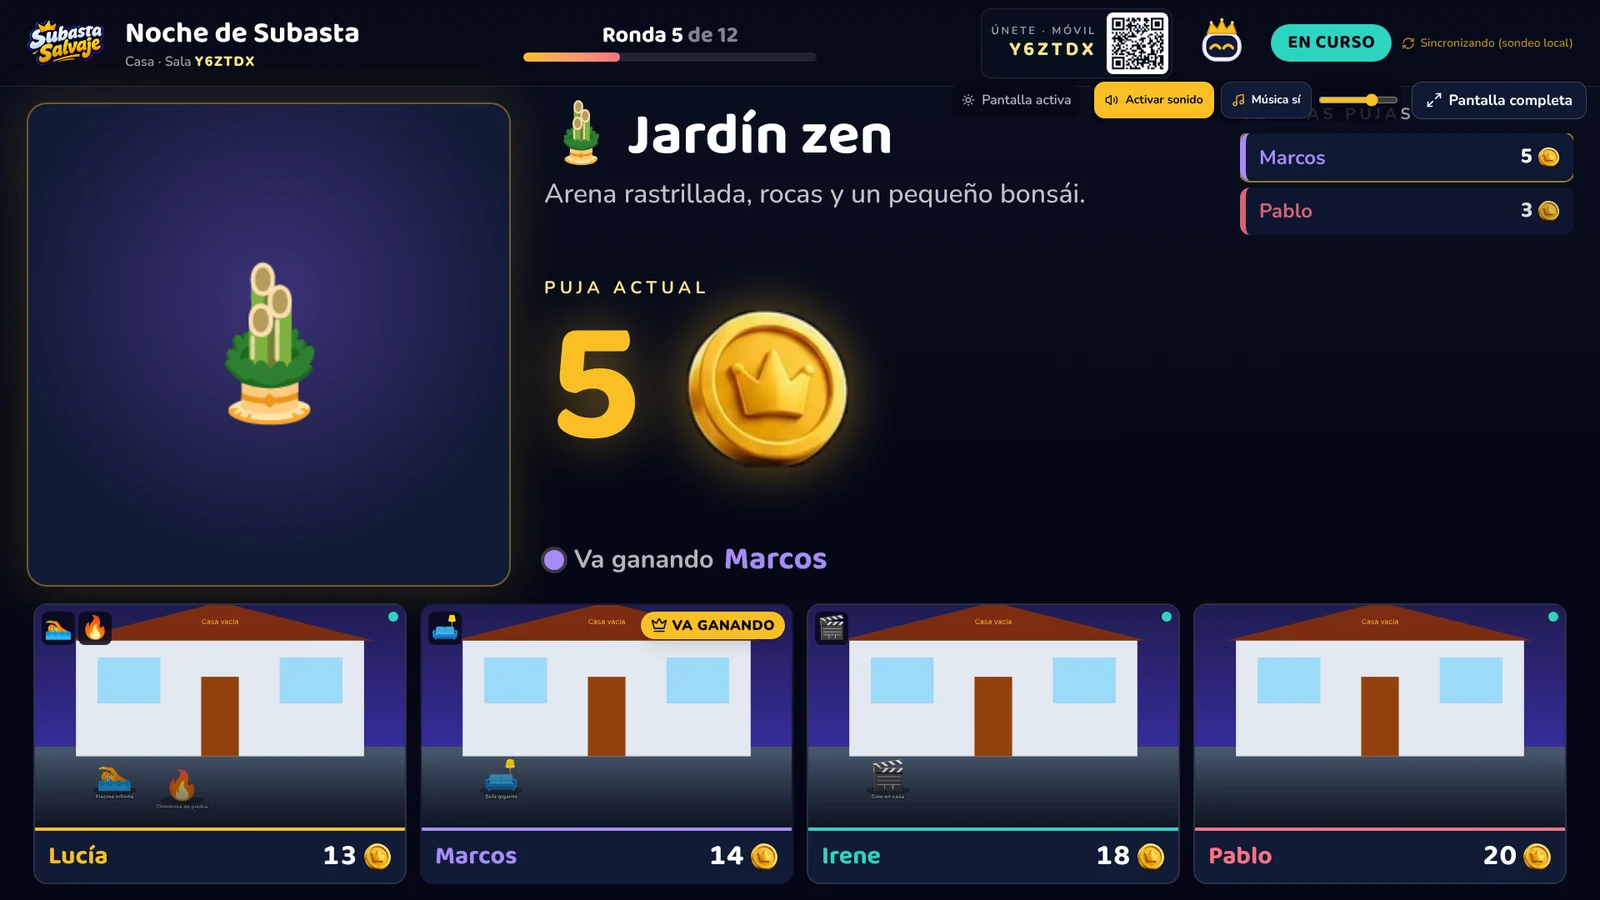
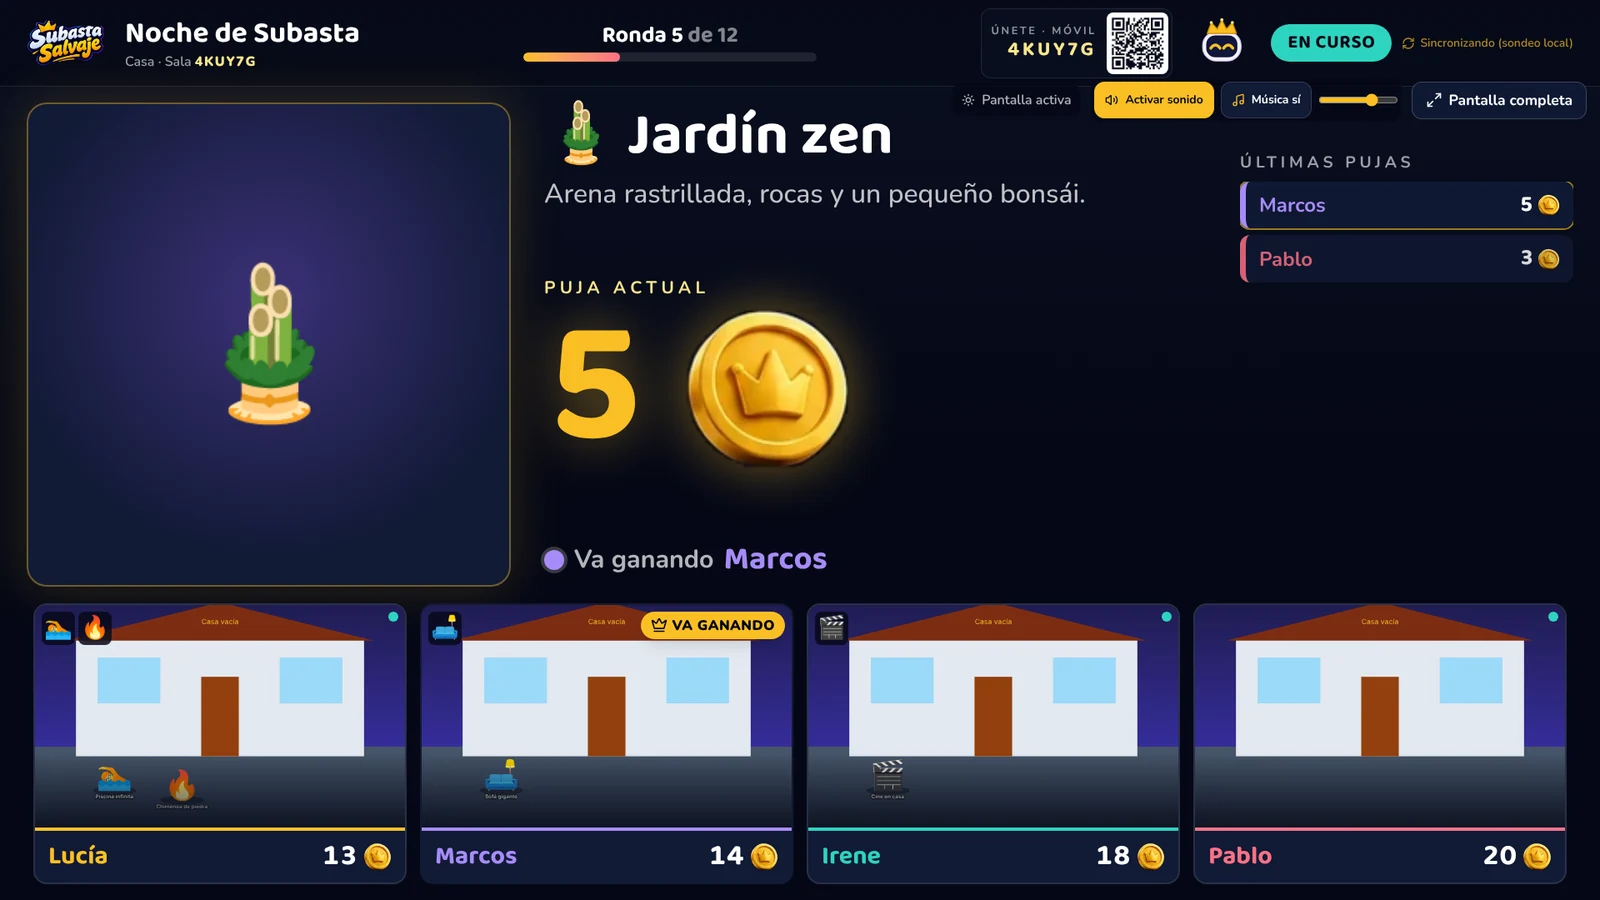
TV: la barra de controles ya no tapa «Últimas pujas»; recapturas de la TV y el panel
Claude-Session: https://claude.ai/code/session_01M6svSusoeZnozbzBPUgbSm

Changed region(s): [[0.75, 0.1556, 1.0, 0.3111], [0.625, 0.0, 0.75, 0.0933], [0.125, 0.0622, 0.1562, 0.0933]]

diff --git a/src/components/screen/auction-stage.tsx b/src/components/screen/auction-stage.tsx
@@ -123,7 +123,7 @@ function ActiveAuction({ snap, auction, players, compact }: { snap: PublicSnapsh
         </div>
       </div>
 
-      <aside className={`flex shrink-0 flex-col ${compact ? 'w-[22rem]' : 'w-[25rem]'}`} aria-label="Últimas pujas" aria-live="polite">
+      <aside className={`flex shrink-0 flex-col pt-[3.6rem] ${compact ? 'w-[22rem]' : 'w-[25rem]'}`} aria-label="Últimas pujas" aria-live="polite">
         <h3 className="mb-2 text-[1.2rem] font-bold uppercase tracking-[0.25em] text-white/60">Últimas pujas</h3>
         <ol className="flex min-h-0 flex-1 flex-col gap-2 overflow-hidden">
           {recent.map((b, i) => {
